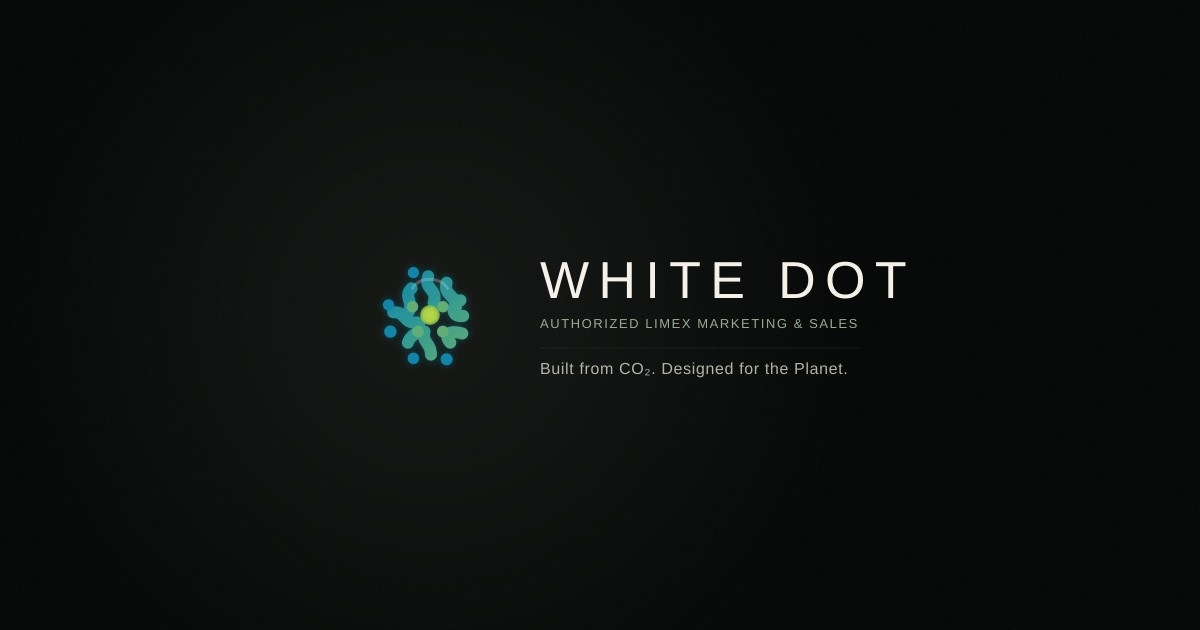
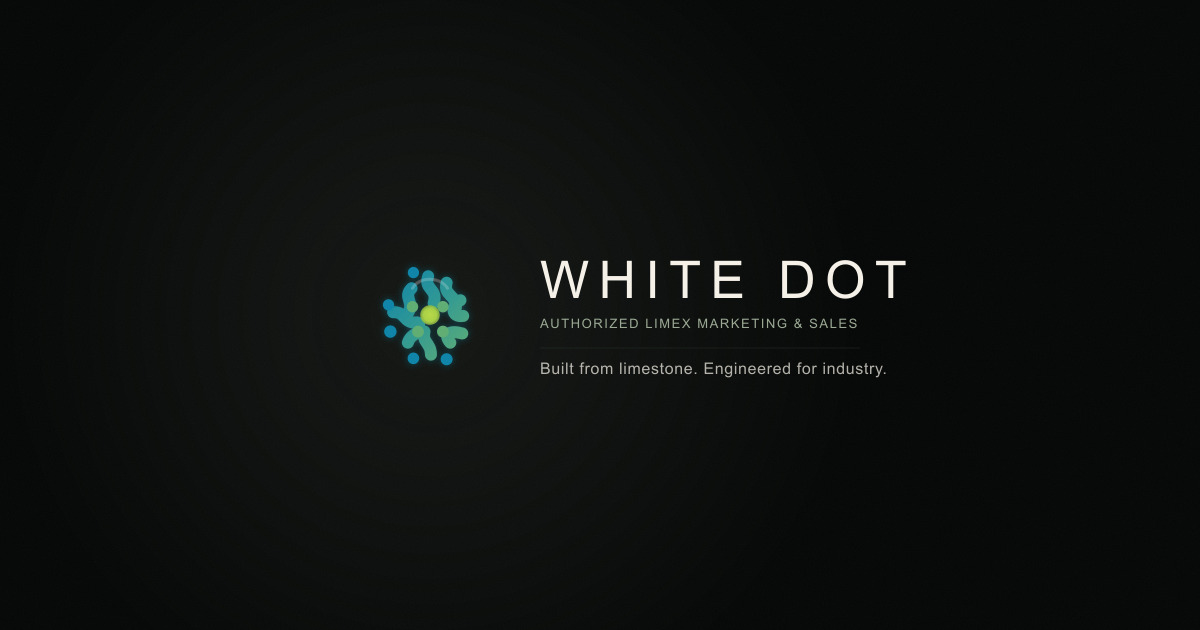
fix: correct LIMEX material origin wording

diff --git a/src/cinematic-v2/sections/Comparison.tsx b/src/cinematic-v2/sections/Comparison.tsx
@@ -10,7 +10,7 @@ type Tab = (typeof TABS)[number];
 const DATA: Record<Tab, Row[]> = {
   Purpose: [
     { category: 'Material intent', limex: 'Developed to reduce plastic consumption while supporting selected technical properties.', filler: 'Typically added mainly to increase weight or lower per-kg cost.' },
-    { category: 'Positioning', limex: 'A performance-oriented, CO₂-based material system.', filler: 'A basic filler with limited technical purpose.' },
+    { category: 'Positioning', limex: 'A performance-oriented, limestone-derived material system.', filler: 'A basic filler with limited technical purpose.' },
   ],
   Processing: [
     { category: 'Processability', limex: 'Designed to process like plastic after proper blending — subject to grade, dosage and machine condition.', filler: 'Can cause lumps, finishing defects and inconsistent processing.' },
@@ -53,7 +53,7 @@ export default function Comparison() {
           </h2>
           <p className="v2cmp-lead">
             Ordinary fillers are commonly used to increase weight or reduce cost.
-            LIMEX material is positioned differently — a CO₂-based material system
+            LIMEX material is positioned differently — a limestone-derived material system
             with controlled quality, technical consistency and application support.
             Compare them by what actually matters on your line.
           </p>

diff --git a/index.html b/index.html
@@ -26,7 +26,7 @@
     <meta property="og:title" content="White Dot LLP | Authorized LIMEX Marketing and Sales in India" />
     <meta
       property="og:description"
-      content="Authorized LIMEX material marketing and sales — plastic replacement, product trials, and industrial adoption. Built from CO₂. Designed for the Planet."
+      content="Authorized LIMEX material marketing and sales — limestone-derived plastic replacement, product trials, and industrial adoption. Built from limestone. Engineered for industry."
     />
     <meta property="og:image" content="https://whitedotindia.in/assets/higgsfield/og-cover.jpg" />
     <meta name="twitter:card" content="summary_large_image" />

diff --git a/docs/STORYBOARD_PRODUCTION_V1.md b/docs/STORYBOARD_PRODUCTION_V1.md
@@ -114,9 +114,9 @@ Model: Nano Banana 2 · 16:9
 **V1 CONTENT (exact):**
 - Kicker: `LIMEX Material Intelligence`
 - H2: `Half laboratory. Half future material.`
-- Lead: `A CO₂-based material engineered to behave like plastic on the production line — while quietly using far less of it.`
+- Lead: `A limestone-derived material engineered to behave like plastic on the production line — while quietly using far less of it.`
 - Left labels:
-  - `Mineral composition` — `50%+ calcium carbonate (CaCO₃), formed from captured CO₂.`
+  - `Mineral composition` — `50%+ calcium carbonate (CaCO₃), derived from limestone supplied through TBM.`
   - `Reduced plastic dependency` — `Replaces a large share of petroleum-based plastic in the blend.`
   - `Sustainability value` — `Lower carbon footprint with practical recycling pathways.`
 - Right labels:
@@ -147,7 +147,7 @@ Model: Nano Banana 2 · 1:1
 - H2: `Watch the Future of Sustainable Materials`
 - Sub: `A cinematic look at how carbon innovation becomes premium material possibility.`
 - Placeholder plate: `Whitedot LIMEX Launch Film` / `Coming Soon`
-- Caption: `From captured carbon to next-generation material innovation.`
+- Caption: `From limestone to next-generation material innovation.`
 
 **GREEN-THEME ANIMATION ($9000)**
 - Glass video frame rises (y:44→0, scale .985→1, 1.1s) with a reflection line sweeping the top edge.
@@ -157,7 +157,7 @@ Model: Nano Banana 2 · 1:1
 
 **HIGGSFIELD PROMPT (launch-film loop 05 — the centerpiece)**
 ```
-Cinematic product film: captured carbon becomes white limestone becomes a finished
+Cinematic product film: mined limestone becomes calcium carbonate, then a finished
 sustainable material object, slow macro transitions, sage-green studio lighting,
 premium advertising film grade, calcium carbonate dust resolving into a smooth
 formed product, no text, no logo, no sci-fi, elegant and restrained, 6-second loop
@@ -234,7 +234,7 @@ Model: Higgsfield video model · 16:9 · **centerpiece — highest priority**
 **V1 CONTENT (exact):**
 - Kicker: `LIMEX Pellets vs Local Filler`
 - H2: `A material system, not a weight additive.`
-- Lead: `Ordinary fillers are commonly used to increase weight or reduce cost. LIMEX material is positioned differently — a CO₂-based material system with controlled quality, technical consistency and application support. Compare them by what actually matters on your line.`
+- Lead: `Ordinary fillers are commonly used to increase weight or reduce cost. LIMEX material is positioned differently — a limestone-derived material system with controlled quality, technical consistency and application support. Compare them by what actually matters on your line.`
 - Tabs: `Purpose` · `Processing` · `Performance` · `Quality` · `Cost Impact` · `Applications`
 - (Each tab's full LIMEX-vs-filler rows are V1 verbatim in `LimexComparison.tsx` — e.g. Purpose: `Material intent` LIMEX `Developed to reduce plastic consumption while supporting selected technical properties.` vs filler `Typically added mainly to increase weight or lower per-kg cost.` … all 6 tabs preserved exactly.)
 - Note: `Choosing between LIMEX Pellets and ordinary filler should not be based on per-kg price alone — the real value depends on processing stability, loading percentage, product performance, machine life, finishing quality, rejection rate and the final application. Final formulation, dosage and performance should always be validated through trials and official grade-specific technical data.`

diff --git a/docs/STORYBOARD_V2.md b/docs/STORYBOARD_V2.md
@@ -451,9 +451,9 @@ H2 (.v2o-title):
   begins as limestone
 
 Lead paragraph (.v2o-lead):
-  Calcium carbonate — the mineral record of ancient marine life —
-  is the foundation of LIMEX. An abundant, naturally occurring
-  resource repurposed for modern material needs.
+  Calcium carbonate derived from limestone is the mineral foundation
+  of LIMEX. Supplied through TBM, it is engineered for modern material
+  applications.
 ```
 
 ### HIGGSFIELD PROMPT — STORYBOARD STILL 07
@@ -553,7 +553,7 @@ Cards settled at full opacity. Scroll continues → Conversion section → Frame
 ## ─────────────────────────────────────────────────────────
 
 ### NARRATIVE LINE
-The process made visual. Three steps in a vertical flow: CO₂ → CaCO₃ → LIMEX. Each step is a compression of geological and industrial time. This is the heartbeat of the brand narrative — the impossible-sounding idea that carbon dioxide, over millions of years of marine life, becomes the white stone, which becomes a practical material for modern packaging.
+The process made visual. Three steps in a vertical flow: LIMESTONE → CaCO₃ → LIMEX. Each step shows how a mined mineral resource becomes a practical material for modern packaging through TBM's material technology.
 
 The numbered list (ol element) is deliberate — this is a sequence, not a collection.
 
@@ -563,7 +563,7 @@ The numbered list (ol element) is deliberate — this is a sequence, not a colle
 - Lead: one paragraph explaining the production chain
 - Three `li` items in `ol.v2cv-steps`:
   - Each has: connector line (vertical hairline), symbol (large), h3, p
-  - Symbol values: CO₂ / CaCO₃ / LIMEX
+  - Symbol values: LIMESTONE / CaCO₃ / LIMEX
 - Connector lines visually link the steps into a pipeline
 
 ### ANIMATION WORKFLOW
@@ -599,16 +599,16 @@ Lead:
   volumes of water.
 
 Step 1:
-  Symbol: CO₂
-  Label: Carbon Dioxide
-  Description: Atmospheric carbon captured through natural geological
-               processes over millions of years.
+  Symbol: LIMESTONE
+  Label: Mineral Source
+  Description: Limestone supplied through TBM as the mineral source
+               for LIMEX material technology.
 
 Step 2:
   Symbol: CaCO₃
   Label: Calcium Carbonate
-  Description: The mineral record of ancient marine life — limestone —
-               abundant in the natural world.
+  Description: Calcium carbonate derived from limestone and prepared
+               for the LIMEX material process.
 
 Step 3:
   Symbol: LIMEX
@@ -620,7 +620,7 @@ Step 3:
 ### HIGGSFIELD PROMPT — STORYBOARD STILL 09
 ```
 Three-step vertical process diagram on dark canvas, each step has a large
-chemical symbol (CO₂, CaCO₃, LIMEX) with a label and description text,
+material marker (LIMESTONE, CaCO₃, LIMEX) with a label and description text,
 thin vertical connector lines between steps suggesting a pipeline, dark background,
 muted accent color on symbols, clean scientific diagram aesthetic, no ornamentation,
 precision layout, Japanese technical precision visual language

diff --git a/.claude/skills/king-queen/SKILL.md b/.claude/skills/king-queen/SKILL.md
@@ -26,7 +26,7 @@ pattern, brand tokens). This skill is the *orchestration layer* on top of it.
 The site must feel: calm, sustainable, premium, organic, futuristic, emotionally
 intelligent, Japanese-minimalism-inspired — nature blended with technology.
 Theme: **"Nature evolving into future material technology."**
-Finale tagline: **"Built from CO₂. Designed for the Planet."**
+Finale tagline: **"Built from limestone. Engineered for industry."**
 
 **NEVER:** neon, gaming-style FX, oversaturation, random particles, loud/aggressive
 transitions, chaotic motion. Speed = slow–medium only. Quality > quantity. Every
@@ -48,7 +48,7 @@ animation must serve the story.
 3. **Plan → phase → QUEEN gate → deploy.** Never one giant batch. Verify
    `npm run build` and run the QUEEN performance pass before every deploy.
 4. **Brand + voice:** dark `#050706`/`#181b19`, sage `#9aa893`, limestone-cream
-   `#f5f1e8`. Procurement-grade copy, no emoji. LIMEX is **CO₂-based → calcium
+   `#f5f1e8`. Procurement-grade copy, no emoji. LIMEX is **limestone-derived → calcium
    carbonate**, never "limestone-based" (the rock visual is fine; the *wording*
    isn't).
 5. Run KING build agents on **Opus 4.7**.
@@ -58,7 +58,7 @@ animation must serve the story.
 |---|---|
 | Storyboard Director / pacing | (orchestrator) + `wd-creative-director` |
 | Motion Architect / scroll-linked easing & inertia | `wd-animation-designer` |
-| LIMEX Material Visualizer (CO₂→CaCO₃ molecular) | `wd-webgl-architect` |
+| LIMEX Material Visualizer (limestone→CaCO₃ material process) | `wd-webgl-architect` |
 | Environmental VFX (dust, debris, fog, ambient) | `wd-webgl-architect` |
 | UI Cinematic Designer (floating type, glass) | `wd-uiux-systems` |
 | Scroll Choreography (model⇄content sync) | `wd-animation-designer` |
@@ -95,8 +95,8 @@ forms; liquid flow as resin enters; structured/industrial as products form).
 
 ## 20-route storyboard (one pinned scene, single progress ref)
 01 dark + single floating stone + dust + slow rotation · 02 soft light reveals
-texture · 03 microscopic mineral cracks · 04 CO₂ particles orbit · 05 surface
-absorbs particles · 06 internal calcium structures form · 07 splits into layered
+texture · 03 microscopic mineral cracks · 04 limestone grains orbit · 05 surface
+reveals mineral structure · 06 internal calcium structures form · 07 splits into layered
 mineral sheets · 08 molecular line systems emerge · 09 particles reorganize into
 cleaner geometry · 10 transparent resin flows through · 11 LIMEX composition
 stabilizes · 12 refines into futuristic material · 13 surface smooths · 14

diff --git a/CLAUDE.md b/CLAUDE.md
@@ -321,7 +321,7 @@ Animations should be:
 Animation style should support WhiteDot's LIMEX story:
 
 ```txt
-CO2 -> Calcium Carbonate -> LIMEX Material -> Plastic Replacement -> Paper Replacement -> FMCG -> Sustainability -> Premium Material Innovation
+Limestone -> Calcium Carbonate -> LIMEX Material -> Plastic Replacement -> Paper Replacement -> FMCG -> Sustainability -> Premium Material Innovation
 ```
 
 Do not create animations that:
